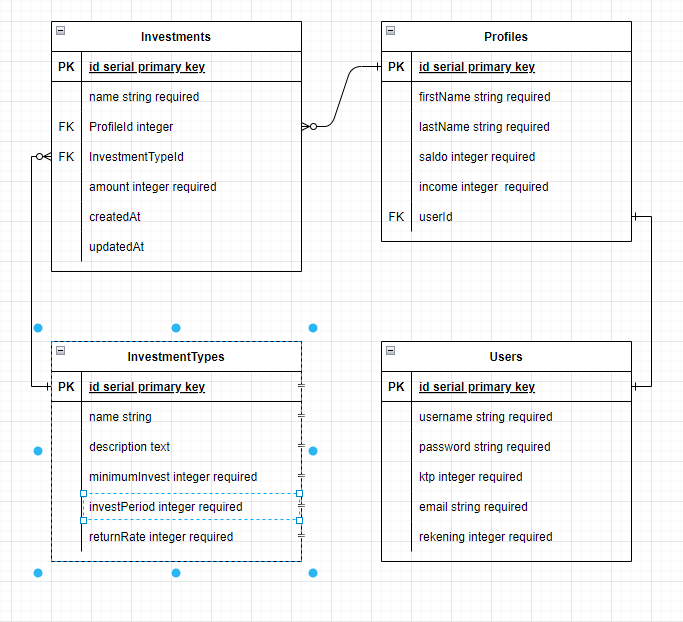
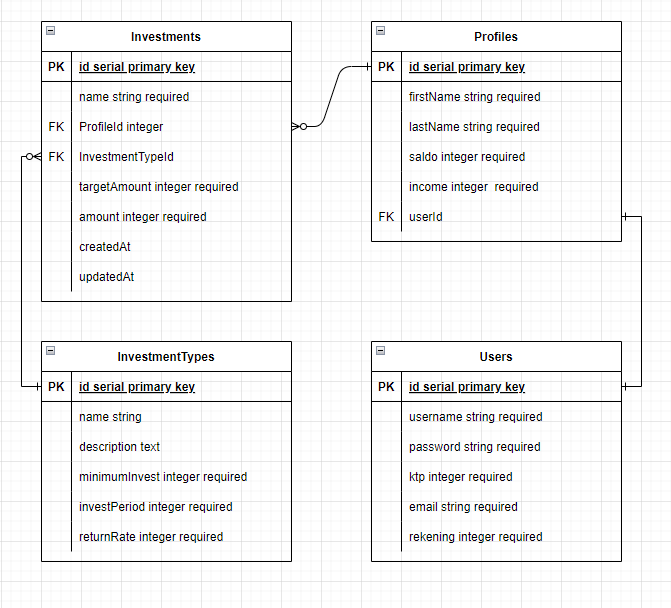
aegis-sampai migrate belum seed

diff --git a/migrations/20220420113837-create-investment.js b/migrations/20220420113837-create-investment.js
@@ -12,6 +12,10 @@ module.exports = {
         type: Sequelize.STRING,
         allowNull: false,
       },
+      targetAmount: {
+        type: Sequelize.INTEGER,
+        allowNull: false,
+      },
       amount: {
         type: Sequelize.INTEGER,
         allowNull: false,
